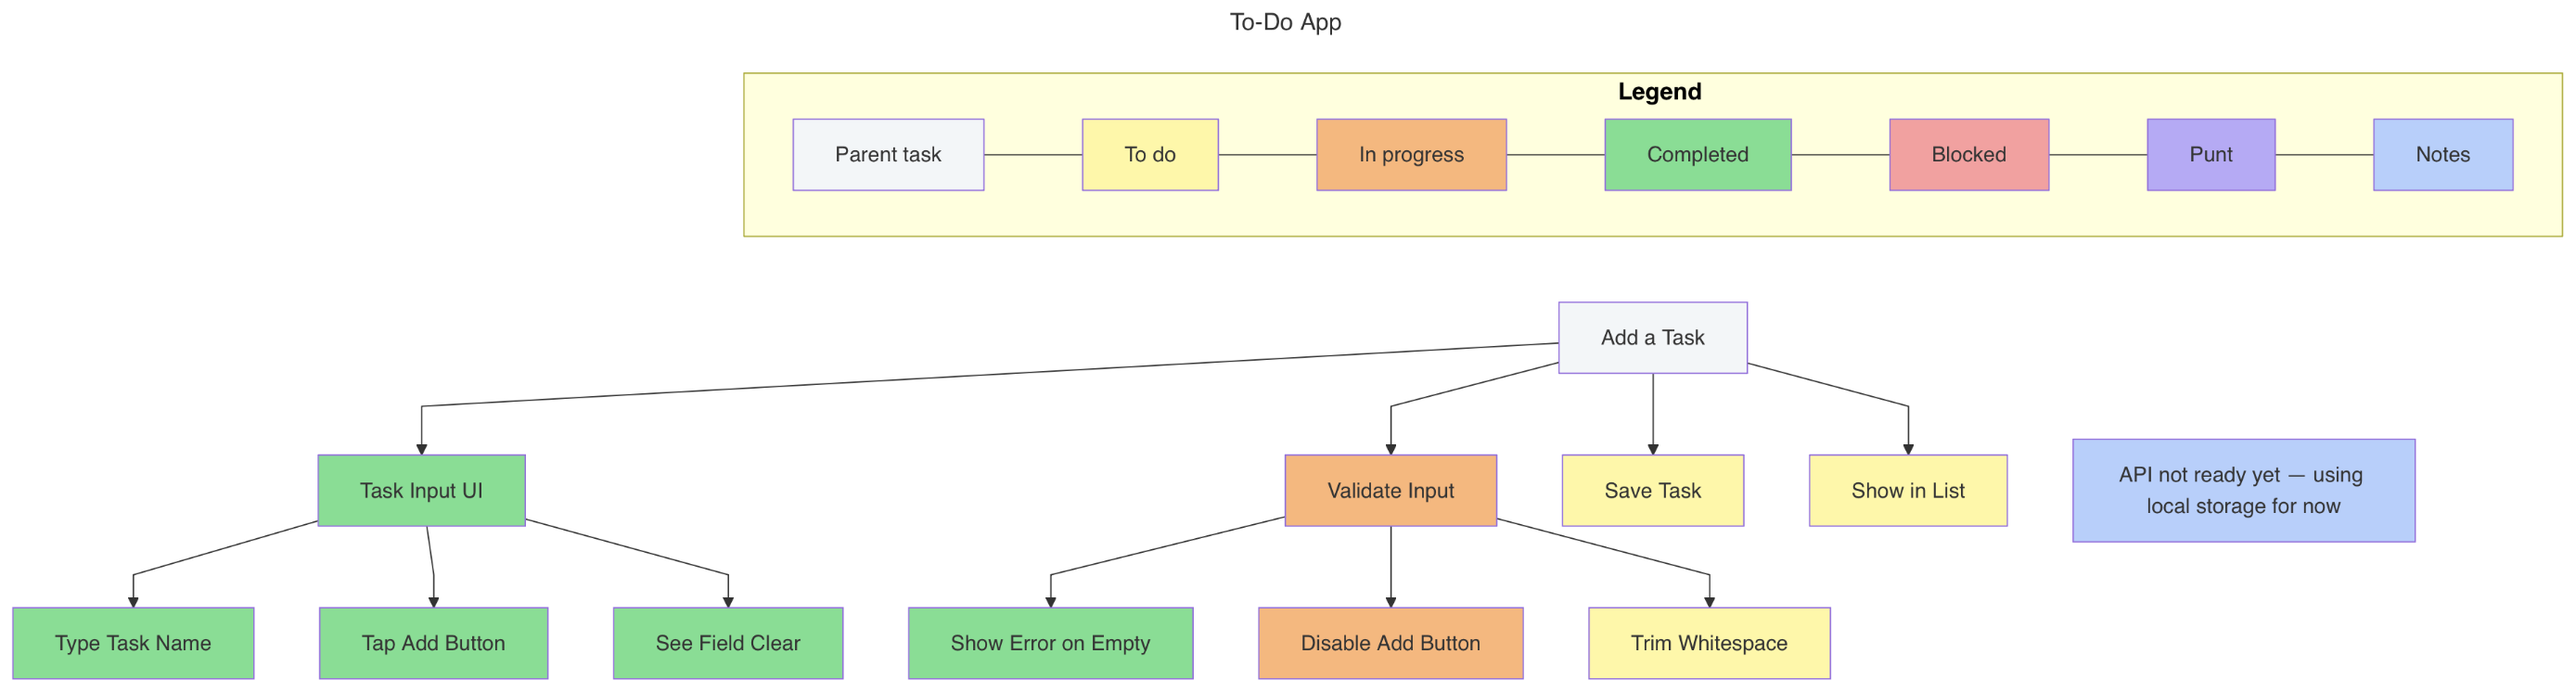
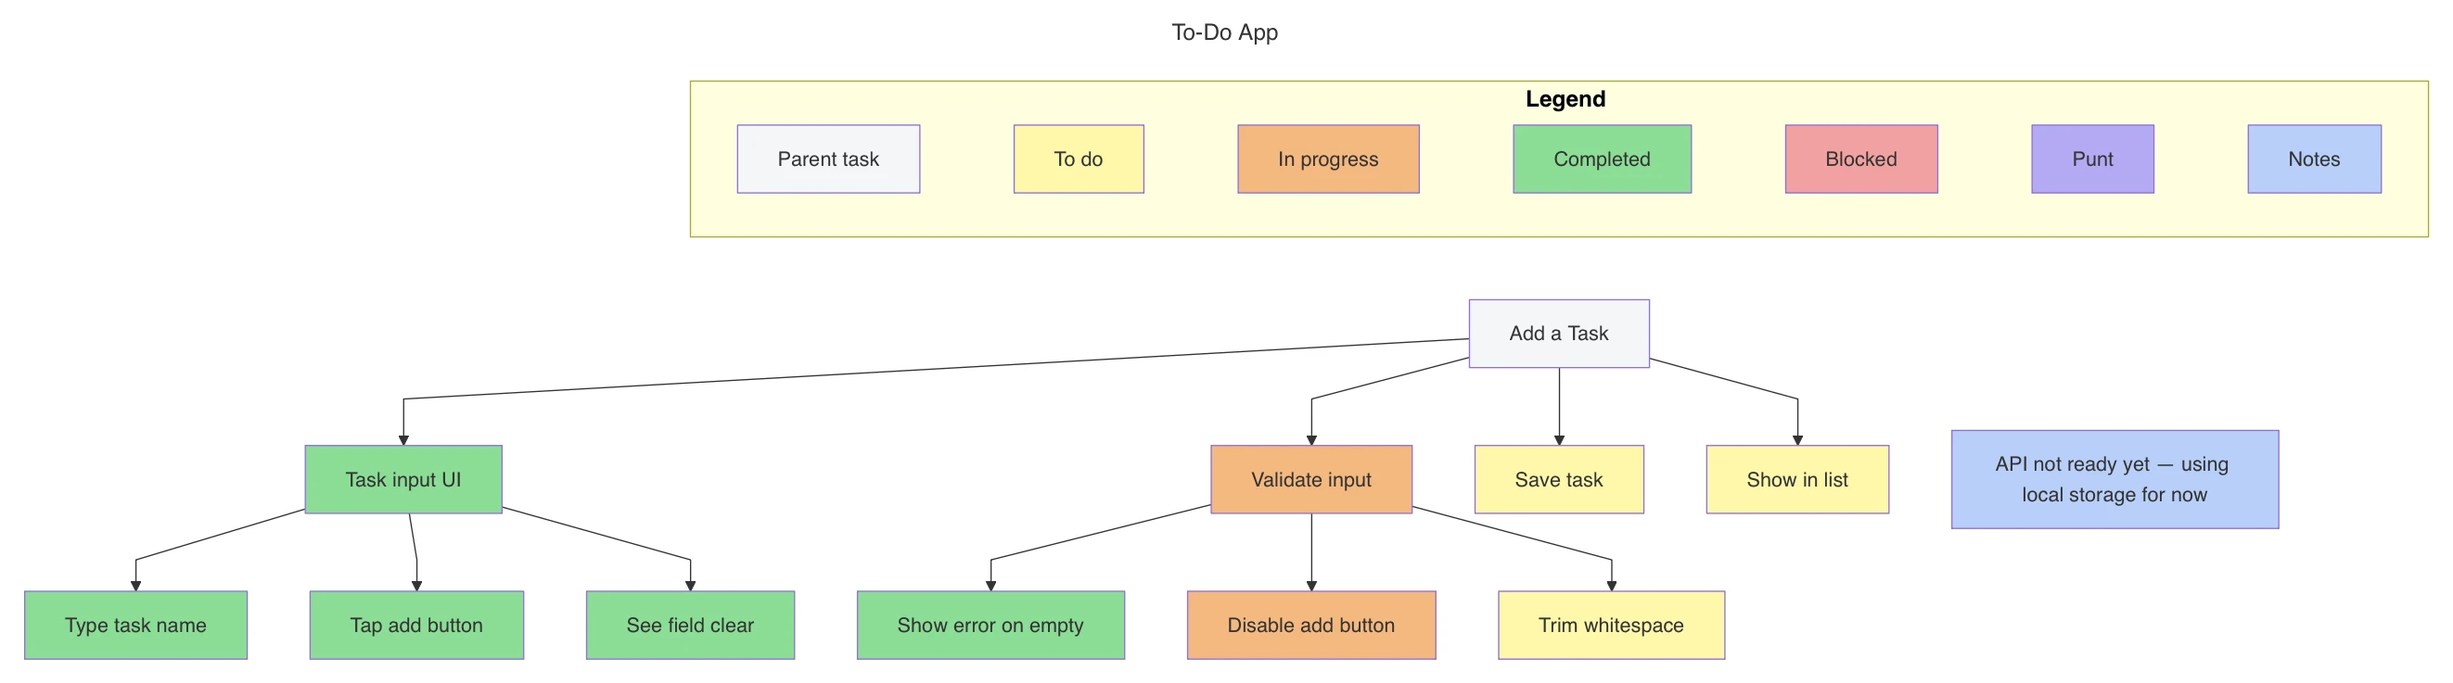
. d Add in-chat display example to readme

diff --git a/demo.md b/demo.md
@@ -1,0 +1,61 @@
+```mermaid
+---
+title: To-Do App
+---
+graph TD
+    subgraph legend["Legend"]
+        direction LR
+        legend-parent-task["Parent task"] ~~~ legend-todo["To do"] ~~~ legend-in-progress["In progress"] ~~~ legend-completed["Completed"] ~~~ legend-blocked["Blocked"] ~~~ legend-punt["Punt"] ~~~ legend-notes["Notes"]
+    end
+
+    parent-node["Add a Task"]
+
+    legend ~~~ parent-node
+
+    parent-node --> task-input-ui["Task input UI"]
+    parent-node --> validate-input["Validate input"]
+    parent-node --> save-task["Save task"]
+    parent-node --> show-in-list["Show in list"]
+
+    task-input-ui --> type-task-name["Type task name"]
+    task-input-ui --> tap-add-button["Tap add button"]
+    task-input-ui --> see-field-clear["See field clear"]
+
+    validate-input --> show-error-on-empty["Show error on empty"]
+    validate-input --> disable-add-button["Disable add button"]
+    validate-input --> trim-whitespace["Trim whitespace"]
+
+    note-1["API not ready yet — using local storage for now"]
+    parent-node ~~~ note-1
+
+    classDef parent-task fill:#f4f6f8
+    classDef todo fill:#fef7aa
+    classDef in-progress fill:#f4b87f
+    classDef completed fill:#8add95
+    classDef blocked fill:#f1a2a0
+    classDef punt fill:#b5abf4
+    classDef notes fill:#b8cffa
+
+    style legend color:#000000,font-size:18px,font-weight:bold
+
+    class legend-parent-task parent-task
+    class legend-todo todo
+    class legend-in-progress in-progress
+    class legend-completed completed
+    class legend-blocked blocked
+    class legend-punt punt
+    class legend-notes notes
+
+    class parent-node parent-task
+    class task-input-ui completed
+    class type-task-name completed
+    class tap-add-button completed
+    class see-field-clear completed
+    class validate-input in-progress
+    class show-error-on-empty completed
+    class disable-add-button in-progress
+    class trim-whitespace todo
+    class save-task todo
+    class show-in-list todo
+    class note-1 notes
+```

diff --git a/README.md b/README.md
@@ -8,14 +8,41 @@ Originally created as physical sticky notes on a whiteboard, they also work well
 
 This skill represents the tree as a Mermaid diagram. I decided to this diagram in a Markdown file. I then open the file in [Typora](https://typora.io), a Markdown editor that also renders Mermaid. You may have a different tool to render Mermaid diagrams locally, such as a VSCode plugin or JetBrains plugin.
 
+## Example
+
+Here's an example of a Discovery Tree. Observe how simple it is to understand.
+
+Also note that we don’t need to do a complete breakdown of subtasks we haven’t started. “It is in the doing of the work that we discover the work that we must do.” (Woody Zuill)
+
+### Rendered in Chat
+
+```
+  Legend: 🟡 To do  🔶 In progress  ✅ Completed  🔴 Blocked  🟣 Punt  🔵 Notes
+
+  To-Do App
+  └── Add a Task
+      ├── ✅ Task input UI
+      │   ├── ✅ Type task name
+      │   ├── ✅ Tap add button
+      │   └── ✅ See field clear
+      ├── 🔶 Validate input
+      │   ├── ✅ Show error on empty
+      │   ├── 🔶 Disable add button
+      │   └── 🟡 Trim whitespace
+      ├── 🟡 Save task
+      └── 🟡 Show in list
+
+  🔵 API not ready yet — using local storage for now
+```
+
+### Rendered in Mermaid
+
+![Demo of "Add a Task" in To-Do App project](demo.webp)
+
 ## Learn More Here
 
 - [Product Mapping and Discovery Trees](https://www.fastagile.io/method/product-mapping-and-discovery-trees) from FAST agile
 - [Working with Discovery Trees](https://www.industriallogic.com/blog/discovery-trees/) by Steve Kuo
-
-Here's a quick demo. Observe how simple it is to understand. Also note that we don’t need to do a complete breakdown of subtasks we haven’t started. “It is in the doing of the work that we discover the work that we must do.” (Woody Zuill)
-
-![Demo of "Add a Task" in To-Do App project](demo.webp)
 
 ## STARTER_CHARACTER
 

diff --git a/CHANGELOG.md b/CHANGELOG.md
@@ -2,7 +2,7 @@ NEXT RELEASE
 ------------
 
 - Add step to display tree with ASCII drawing and emoji.
-- Improve legend by hiding lines.
+- Improve Mermaid legend by hiding lines.
 - Simplify text to save tokens.
 
 Version 1.1
